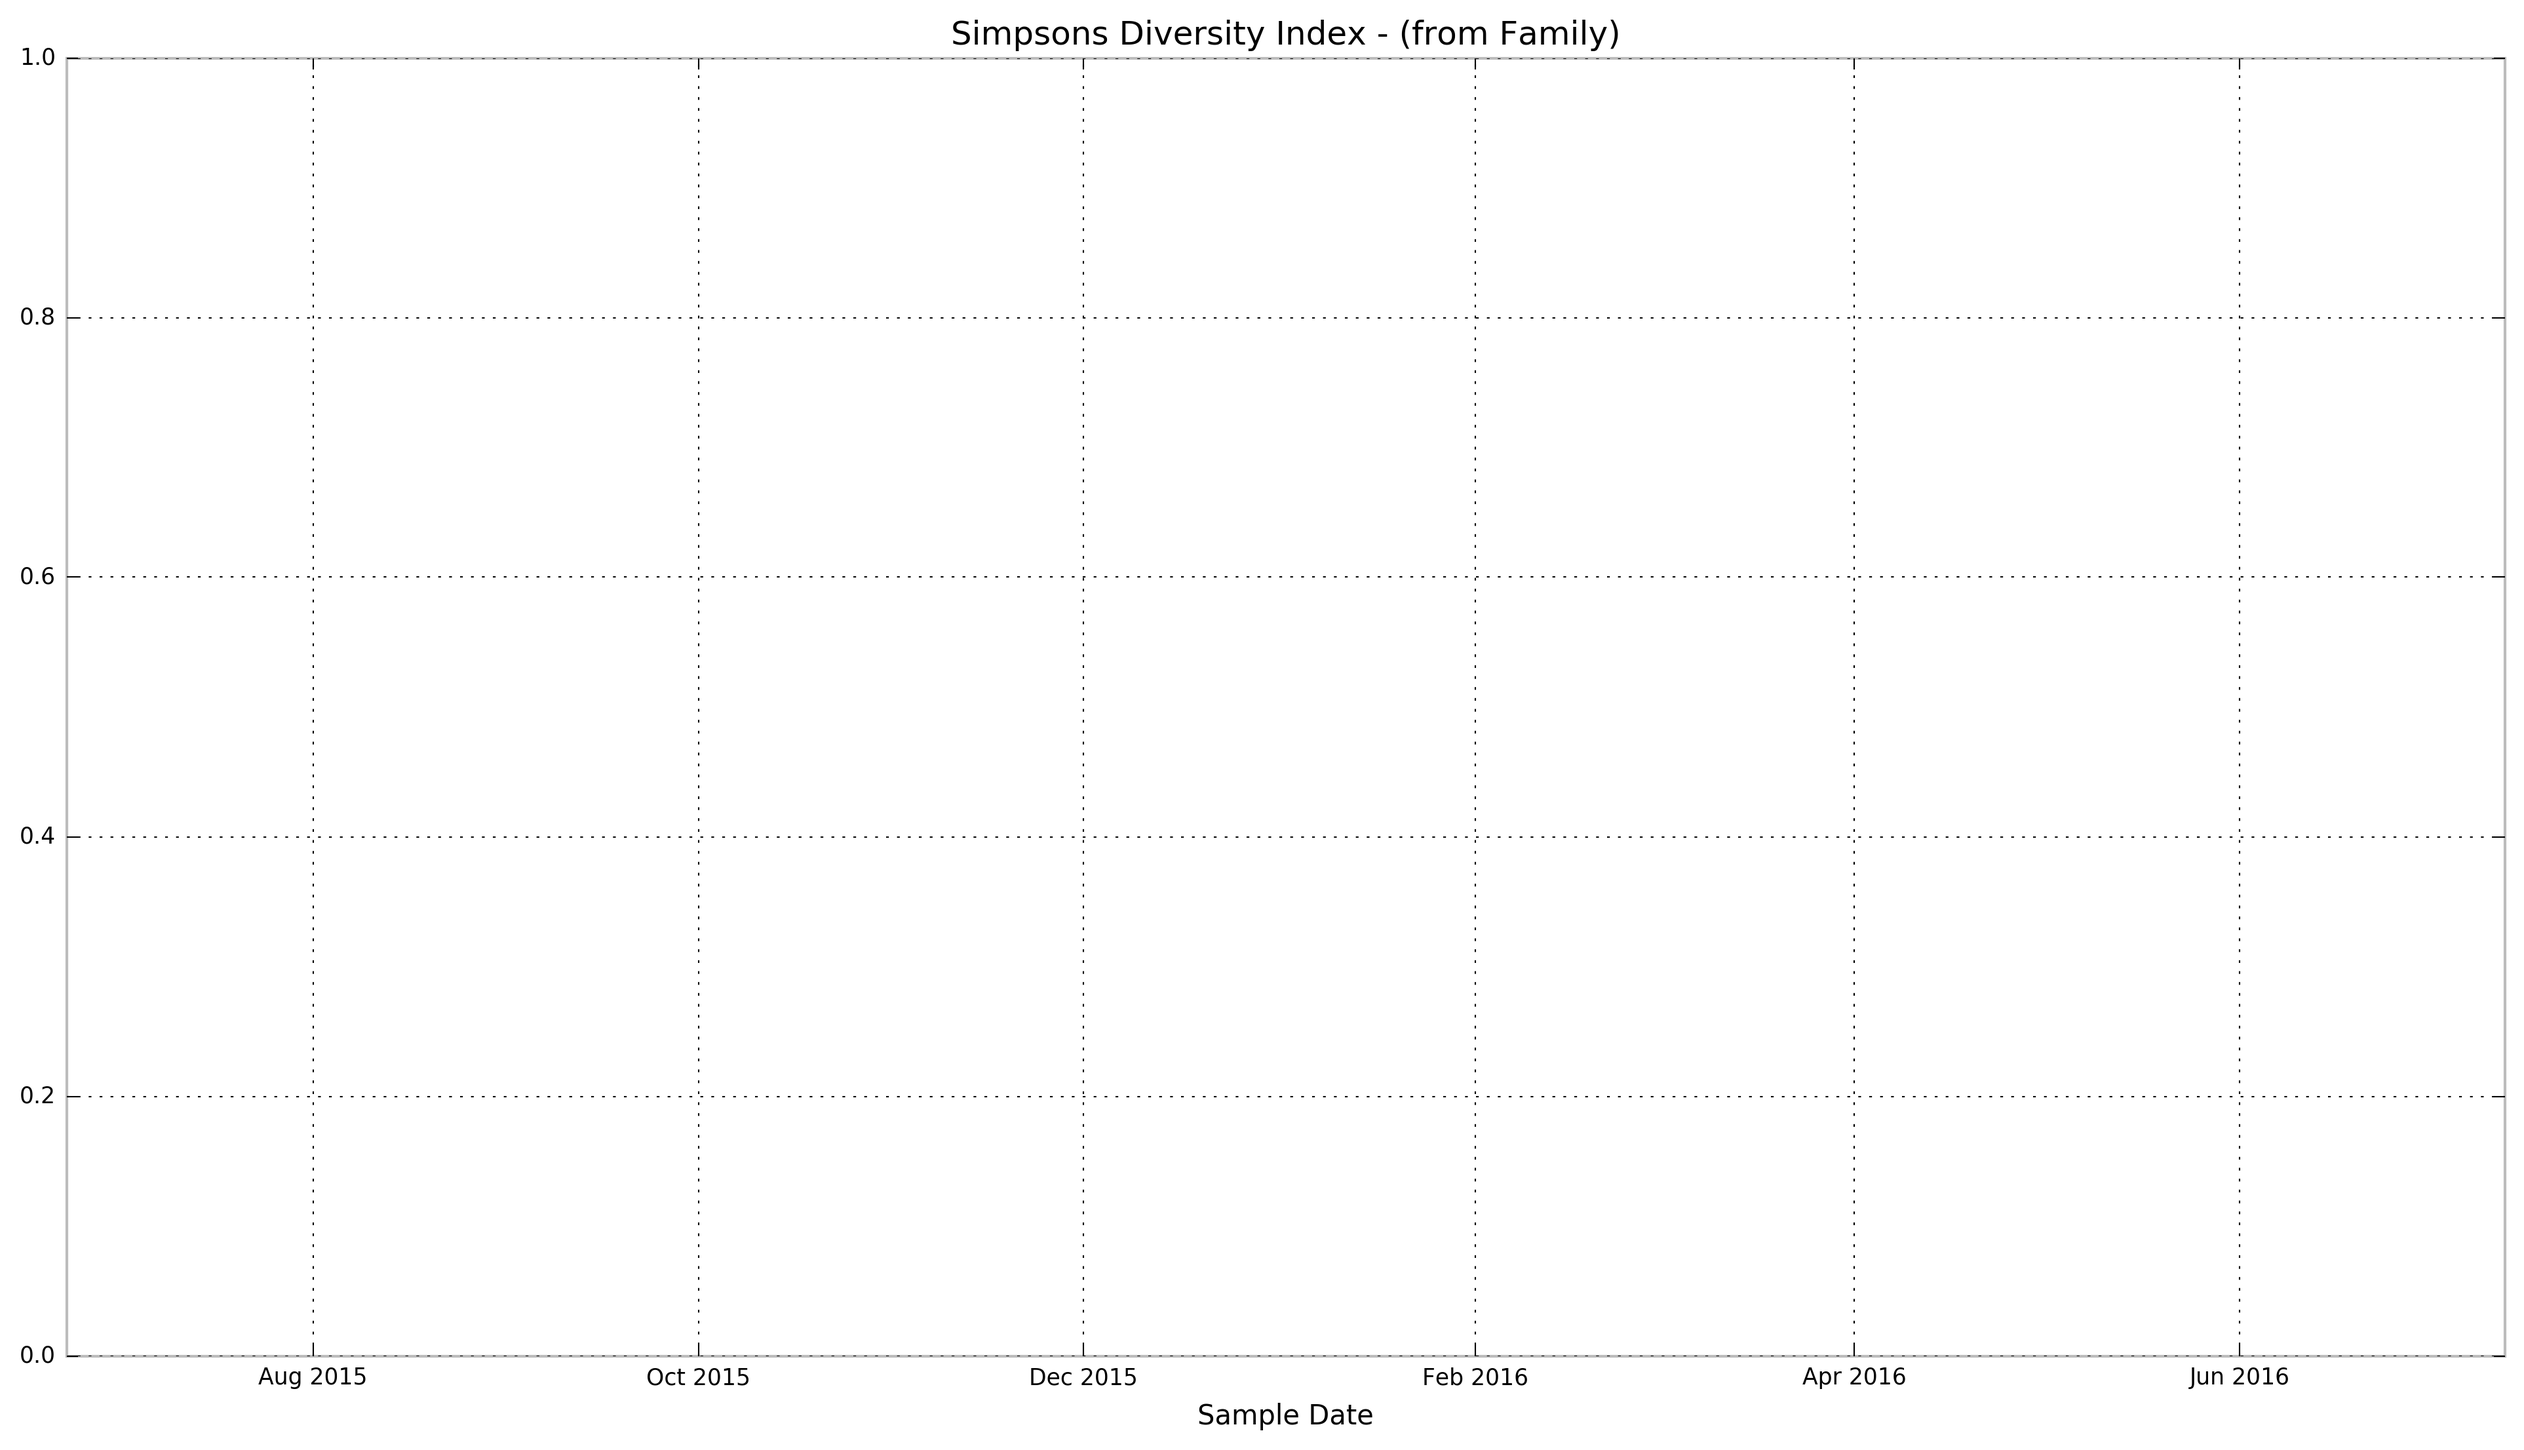
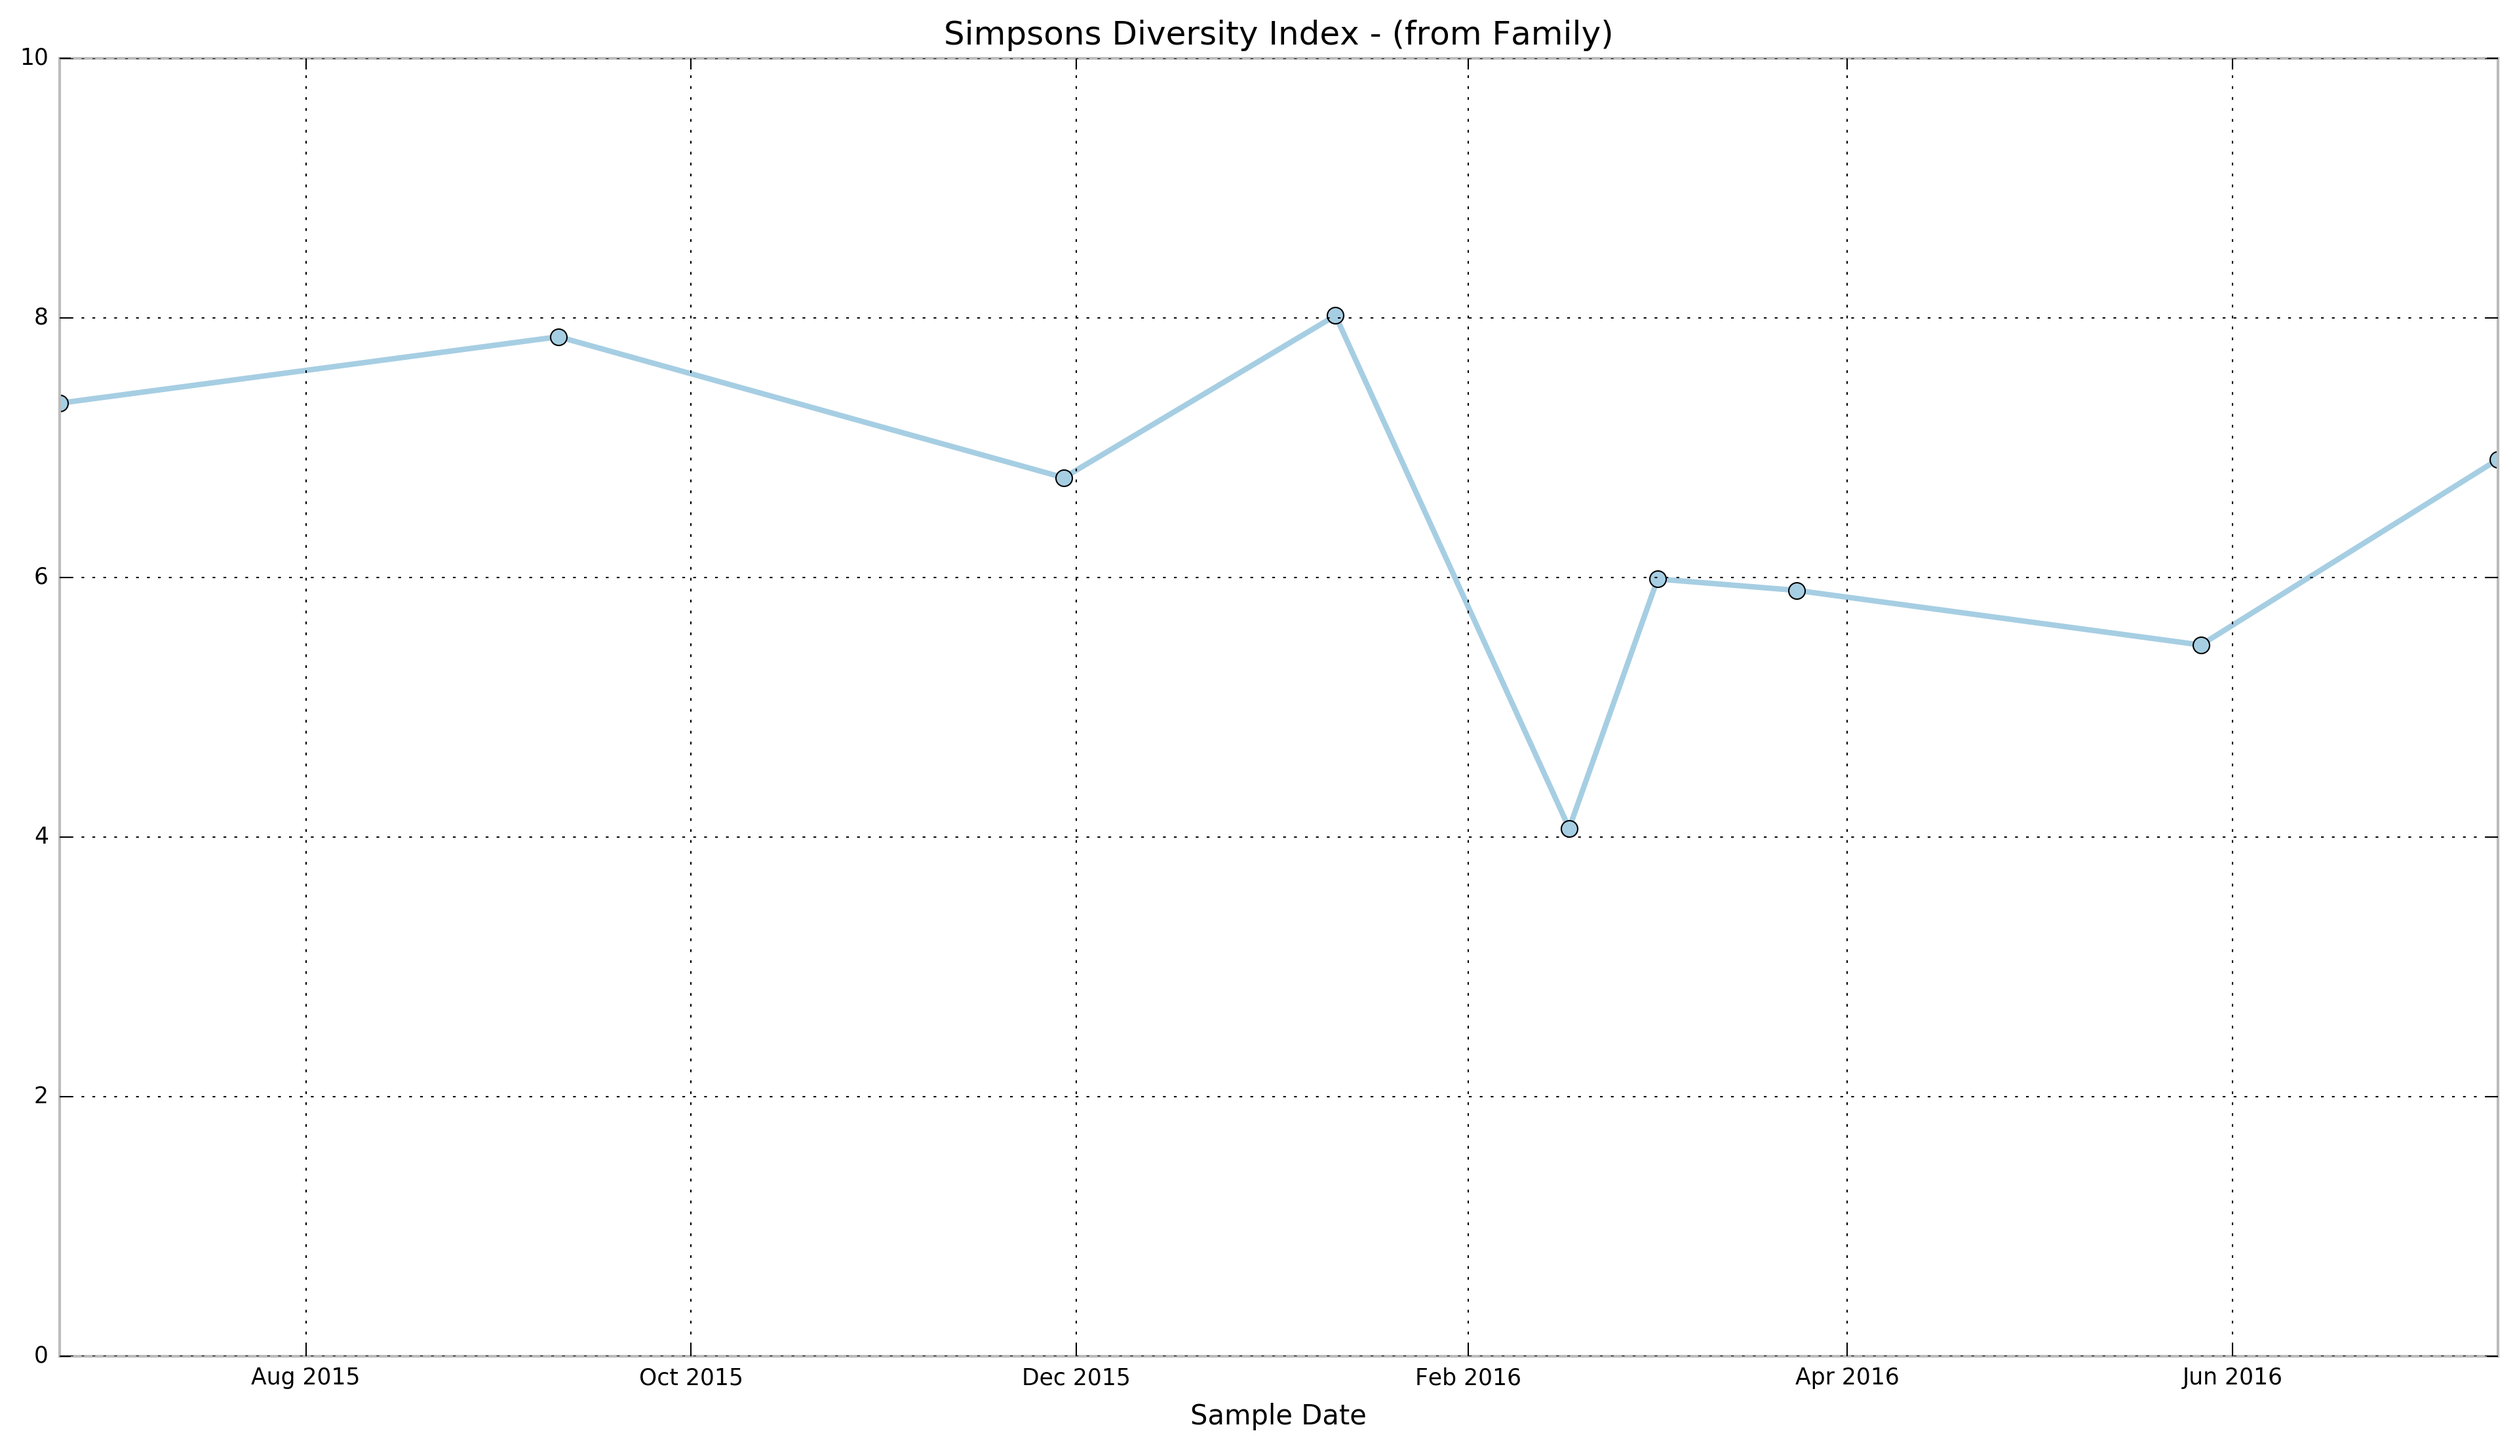
fixed diversity index

diff --git a/code/main.py b/code/main.py
@@ -326,14 +326,14 @@ def stackplotTest():
     plt.clf()
     r_int = np.round(r*10000)
     #N = np.sum(r_int, axis=0)
-    #D = np.sum(r_int*(r_int-1), axis=0) /  (np.sum(r_int, axis=0)*(np.sum(r_int, axis=0)-1))
-    D = np.sum((r/100)**2,axis=0) # old way
+    D = np.sum(r_int*(r_int-1), axis=0) /  (np.sum(r_int, axis=0)*(np.sum(r_int, axis=0)-1))
+    #D = np.sum((r/100)**2,axis=0) # old way
     #p = (r/np.sum(r, axis=0))
     #D = 1/np.sum(p**2, axis=0)          
     plt.plot(rr, 10*(1-D))
     plt.title('Simpsons Diversity Index - (from Family)')
     plt.xlabel('Sample Date')
-    plt.ylim([0,1])
+    plt.ylim([0,10])
     plt.savefig(os.path.join(baseDir, 'simpsons diversity index.png'))     
     
     plt.clf()
@@ -574,10 +574,16 @@ def parseOtu():
     
     from sklearn.lda import LDA
     clf = LDA()
-    clf.fit(inputMat.T, outputVec)    
+    clf.fit(inputMat[:,1:80].T, outputVec[1:80])    
     fit = clf.predict(inputMat.T)
     err = np.sum(np.abs(fit - outputVec)>0)
     print(err)
+    
+    # SVM
+    clf = sklearn.svm.SVC(kernel='linear', C=1e-1)
+    n_samples = inputMat.shape[1]
+    cv = sklearn.cross_validation.KFold(n_samples,n_folds=8,shuffle=True)
+    scores = sklearn.cross_validation.cross_val_score(clf, inputMat.T, outputVec, cv=cv)    
     
     # Predict my data
     # Read in my data file
@@ -593,7 +599,7 @@ if __name__ == "__main__":
     matplotlib.style.use('https://raw.githubusercontent.com/isaacgerg/matplotlibrc/master/matplotlibrc.txt')
     
     # TODO rename
-    #stackplotTest()
+    stackplotTest()
     
     parseOtu()
    
